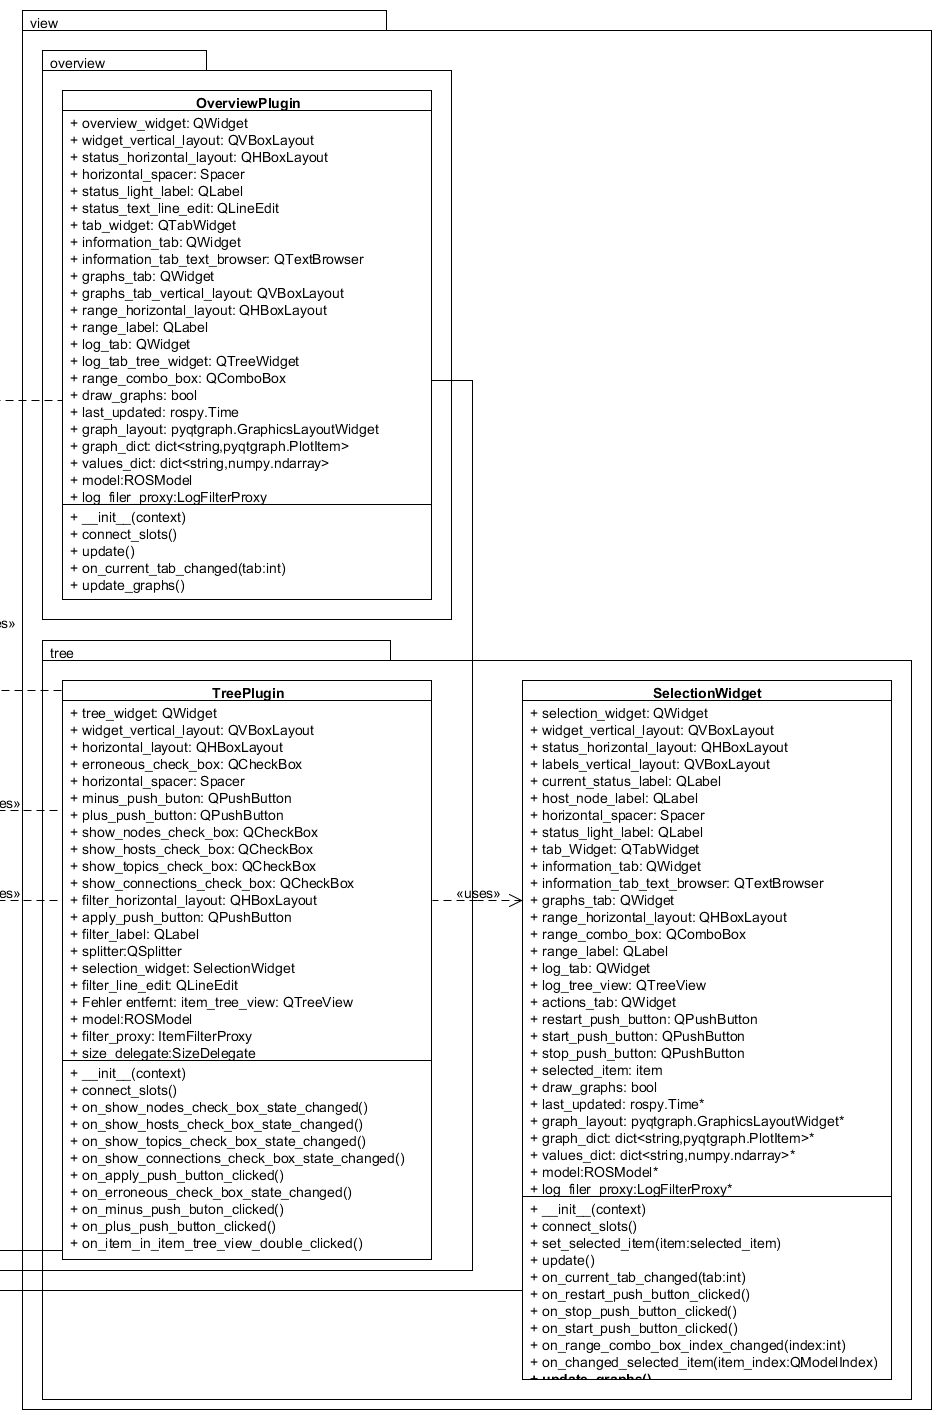
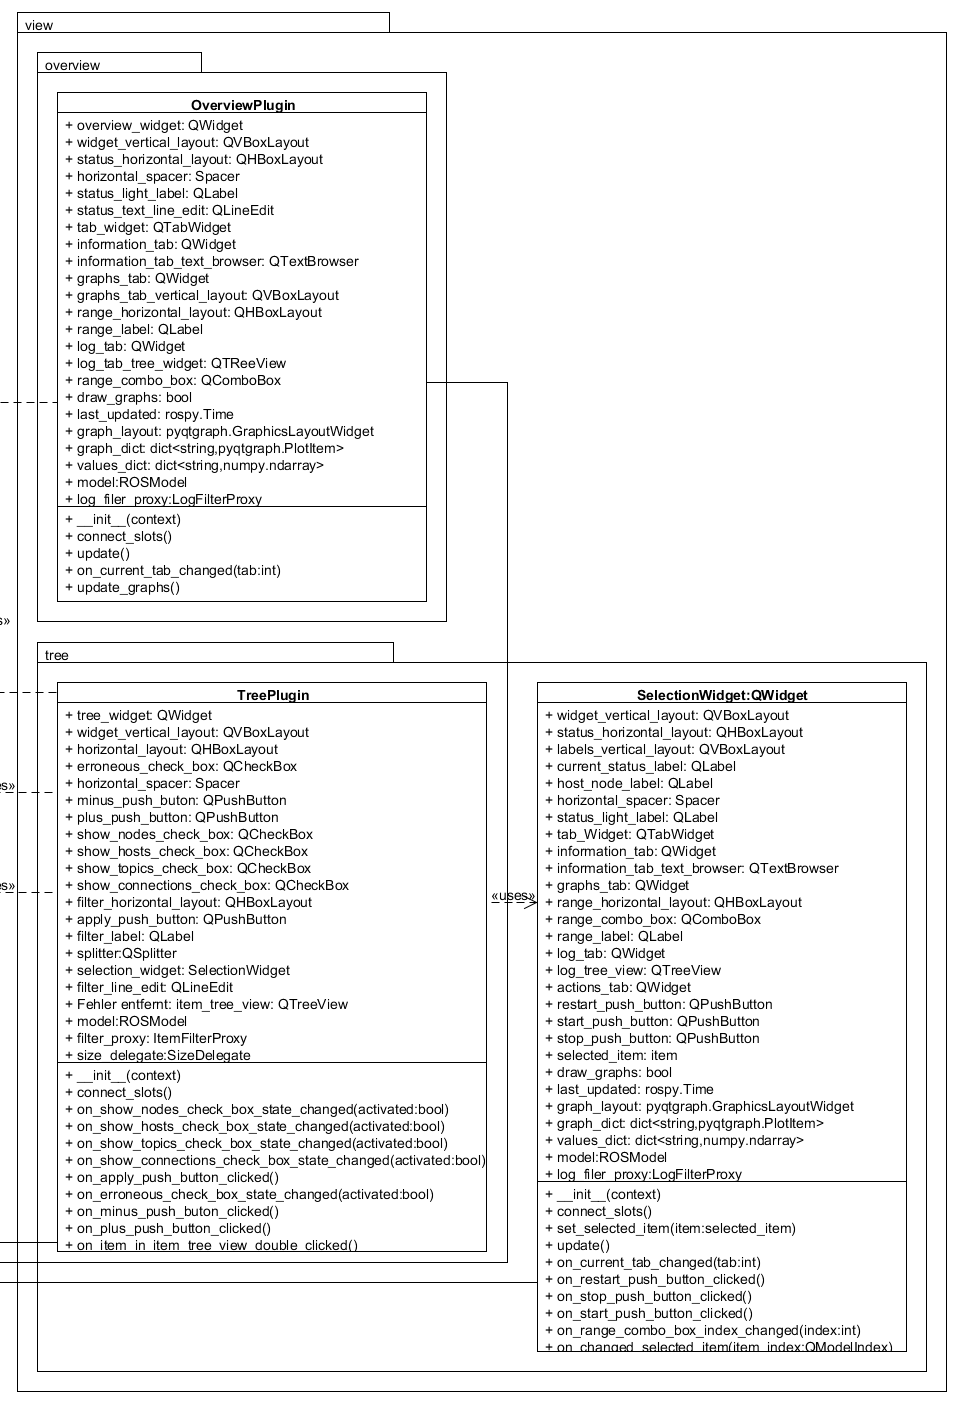
doch noch fehler gefunden

Changed region(s): [[0.0, 0.0, 1.0, 1.0]]

diff --git a/Entwurf/content/gui.tex b/Entwurf/content/gui.tex
@@ -10,8 +10,15 @@
 %\mbox{}
 
 %\newpage
+\section{GUI}
+\begin{figure}[!ht]
+\begin{center}
+\includegraphics[width=1.0\linewidth]{./diagram_pictures/KlassendiagrammWidgets.pdf}
+\caption{The GUI class diagram}
+\end{center}
+\end{figure}
 
-
+\newpage
 \section{GUI - Model}
 \begin{figure}[!ht]
 \begin{center}
@@ -435,7 +442,7 @@ only the log of the current selection should be shown.
 		\caption{The ROSModel}
 	\end{minipage}
 	\hfill
-	\begin{minipage}[t]{8cm}
+	\begin{minipage}[t]{6.5cm}
 		\vspace{10pt}
 		The OverviewPlugin is the core of the graphical user interface, which
 		contains most of the relevant information in a small and fancy area.
